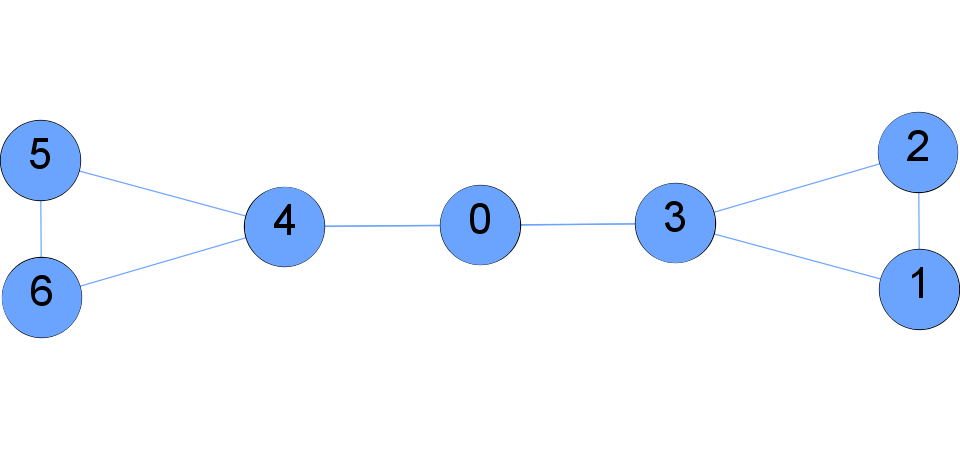
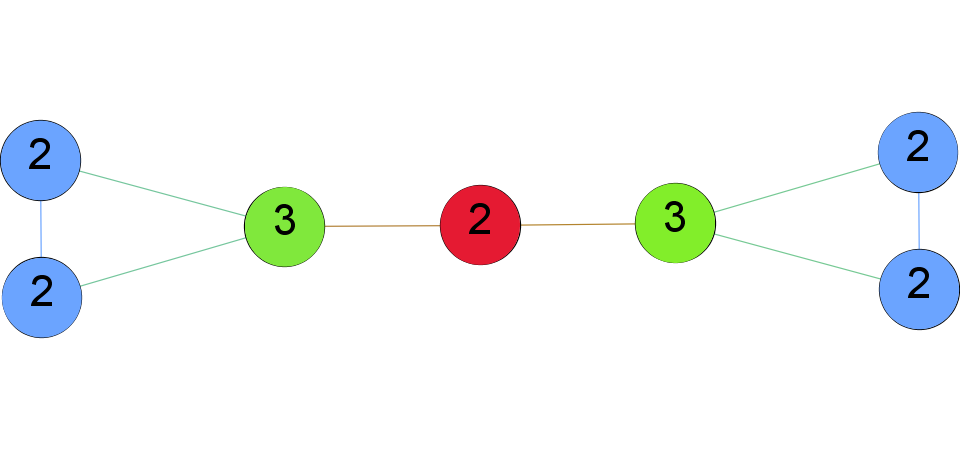
add closeness draft

diff --git a/_includes/graphs/smallworld-example-betweeness.html b/_includes/graphs/smallworld-example-betweeness.html
@@ -1,0 +1,3 @@
+<div id="htmlwidget-e1a9ef7439fae3769133" style="width:100%;height:450px;" class="visNetwork html-widget"></div>
+<script type="application/json" data-for="htmlwidget-e1a9ef7439fae3769133">{"x":{"nodes":{"id":[1,2,3,4,5,6,7,8,9,10,11,12,13,14,15,16,17,18,19,20,21,22,23],"group":[1,2,2,2,1,2,1,1,1,1,3,1,3,3,2,2,2,1,4,4,4,2,1],"size":[0,0,0,71.5,0,4.5,0,0,10.5,0,4,0,1,64.5,0,5,5,0,0,55,10.5,0,0],"label":[1,2,3,4,5,6,7,8,9,10,11,12,13,14,15,16,17,18,19,20,21,22,23],"x":[-0.93528883,-0.64370251,-0.25815814,-0.36911966,0.07582462,0.09556118,-0.87784055,-0.5944275,-0.23924928,-0.16322217,0.3367184,0.25711923,0.11277473,-0.22382193,-1,-0.76775707,-0.57229733,0.97761498,0.59676092,0.45883745,0.71403774,0.91791276,1],"y":[0.2524424,0.3249998,0.4378094,0.2731771,0.449874,0.0591335,0.4633927,0.5685366,0.7012318,1,-0.2342028,-0.8151001,-0.3133818,-0.1651676,-0.4520687,-0.3141045,-0.3194687,-0.4543636,-0.6992878,-0.5285877,-0.7971433,-1,-0.6346642],"title":["Undirected Betweeness: 0<br />Directed Betweeness: 0","Undirected Betweeness: 0<br />Directed Betweeness: 0","Undirected Betweeness: 0<br />Directed Betweeness: 0","Undirected Betweeness: 143<br />Directed Betweeness: 124","Undirected Betweeness: 0<br />Directed Betweeness: 0","Undirected Betweeness: 9<br />Directed Betweeness: 4","Undirected Betweeness: 0<br />Directed Betweeness: 0","Undirected Betweeness: 0<br />Directed Betweeness: 0","Undirected Betweeness: 21<br />Directed Betweeness: 0","Undirected Betweeness: 0<br />Directed Betweeness: 0","Undirected Betweeness: 8<br />Directed Betweeness: 18","Undirected Betweeness: 0<br />Directed Betweeness: 0","Undirected Betweeness: 2<br />Directed Betweeness: 80","Undirected Betweeness: 129<br />Directed Betweeness: 164","Undirected Betweeness: 0<br />Directed Betweeness: 0","Undirected Betweeness: 10<br />Directed Betweeness: 0","Undirected Betweeness: 10<br />Directed Betweeness: 18","Undirected Betweeness: 0<br />Directed Betweeness: 0","Undirected Betweeness: 0<br />Directed Betweeness: 0","Undirected Betweeness: 110<br />Directed Betweeness: 109","Undirected Betweeness: 21<br />Directed Betweeness: 30","Undirected Betweeness: 0<br />Directed Betweeness: 0","Undirected Betweeness: 0<br />Directed Betweeness: 0"]},"edges":{"from":[1,4,4,4,4,10,4,2,4,3,4,4,14,6,11,13,13,14,14,15,17,15,14,17,20,20,20,19,20,19,21,20,21,21,22,20,20,14],"to":[4,5,7,8,9,9,2,4,3,4,6,14,4,11,13,11,14,13,16,16,16,17,17,14,11,12,18,20,19,21,19,21,20,22,21,23,13,20]},"nodesToDataframe":true,"edgesToDataframe":true,"options":{"height":"100%","nodes":{"shape":"dot","physics":false,"title":"don't care","x":[-0.93528883,-0.64370251,-0.25815814,-0.36911966,0.07582462,0.09556118,-0.87784055,-0.5944275,-0.23924928,-0.16322217,0.3367184,0.25711923,0.11277473,-0.22382193,-1,-0.76775707,-0.57229733,0.97761498,0.59676092,0.45883745,0.71403774,0.91791276,1],"y":[0.2524424,0.3249998,0.4378094,0.2731771,0.449874,0.0591335,0.4633927,0.5685366,0.7012318,1,-0.2342028,-0.8151001,-0.3133818,-0.1651676,-0.4520687,-0.3141045,-0.3194687,-0.4543636,-0.6992878,-0.5285877,-0.7971433,-1,-0.6346642],"group":[1,2,2,2,1,2,1,1,1,1,3,1,3,3,2,2,2,1,4,4,4,2,1],"shadow":true,"scaling":{"min":10,"max":50}},"manipulation":{"enabled":false},"edges":{"smooth":false,"arrows":"to"},"physics":{"stabilization":false},"width":"100%","interaction":{"dragNodes":false,"navigationButtons":true}},"groups":["1","2","3","4"],"width":null,"height":null,"idselection":{"enabled":false,"style":"width: 150px; height: 26px","useLabels":true,"main":"Select by id"},"byselection":{"enabled":false,"style":"width: 150px; height: 26px","multiple":false,"hideColor":"rgba(200,200,200,0.5)"},"main":null,"submain":null,"footer":null,"background":"rgba(0, 0, 0, 0)","igraphlayout":{"type":"square"},"highlight":{"enabled":true,"hoverNearest":false,"degree":{"from":1,"to":1},"algorithm":"hierarchical","hideColor":"rgba(200,200,200,0.5)","labelOnly":true},"collapse":{"enabled":false,"fit":false,"resetHighlight":true,"clusterOptions":null},"tooltipStay":300,"tooltipStyle":"position: fixed;visibility:hidden;padding: 5px;white-space: nowrap;font-family: verdana;font-size:14px;font-color:#000000;background-color: #f5f4ed;-moz-border-radius: 3px;-webkit-border-radius: 3px;border-radius: 3px;border: 1px solid #808074;box-shadow: 3px 3px 10px rgba(0, 0, 0, 0.2);"},"evals":[],"jsHooks":[]}</script>
+<script type="application/htmlwidget-sizing" data-for="htmlwidget-e1a9ef7439fae3769133">{"viewer":{"width":"100%","height":"450px","padding":15,"fill":false},"browser":{"width":"100%","height":"450px","padding":"0px","fill":false}}</script>

diff --git a/_drafts/importanza-individui-rete-centralita.md b/_drafts/importanza-individui-rete-centralita.md
@@ -6,6 +6,7 @@ header:
   overlay_filter: 0.5
 graph_bare: "graphs/smallworld-example-bare.html"
 graph_degree: "graphs/smallworld-example-degree.html"
+graph_betweeness: "graphs/smallworld-example-betweeness.html"
 ---
 
 Tutti coloro che si approcciano alla Social Network Analysis si aspettano che questa disciplina li aiuti a capire quali sono gli individui più _prominenti_ in una data rete sociale. Una richiesta più che ovvia, dato che la SNA per definizione studia le relazioni tra gli attori proprio con questa finalità. Gli strumenti a disposizione per rispondere a domande di questo tipo sono moltissimi: alcuni sono semplici, altri estremamente sofisticati; tutti molto utili, in effetti. Ma prima di addentrarci nello specifico bisogna porsi una domanda fondamentale: cosa intendiamo per _prominenza_ in una rete sociale?
@@ -39,20 +40,37 @@ Vediamolo visualmente nella nostra rete giocattolo, dove la dimensione dei nodi 
 
 {% include {{ page.graph_degree }} %}
 
-dove blah blah blah
-
-Per chi si trova a suo agio con la matematica:
-
-$$x = {-b \pm \sqrt{b^2-4ac} \over 2a}.$$
-
-Ora, la misura è semplice e l'interpretazione immediata, ma talvolta contare semplicemente i collegamenti non fa, di per sé, un nodo importante. In particolare, questa misura non dice nulla circa il _tipo_ dei collegamenti, ma rimedieremo subito.
+Ora, la misura è semplice e l'interpretazione immediata, ma talvolta contare semplicemente i collegamenti non fa, di per sé, un nodo importante. In particolare, questa misura non dice nulla circa il _tipo_ dei collegamenti, una cosa che non va trascurata. Rimedieremo subito.
 
 ## Essere fondamentale: Betweeness Centrality
 
-Talvolta un nodo può risultare importante anche quando non ha un elevato numero di nodi da e verso di esso. Vediamo per esempio la rete qui sotto:
+Talvolta un nodo può risultare importante anche quando non ha un elevato numero di nodi da e verso di esso. Vediamo per esempio la rete qui sotto, in cui i numeri nei nodi rappresentano la degree centrality:
 
-{% include figure image_path="/assets/images/toy.butterfly.png" alt="Butterfly Network" caption="Nella rete cosiddetta a farfalla non è detto che i nodi con elevata degree centrality siano quelli più importanti della rete." %}
+{% include figure image_path="/assets/images/toy.butterfly.png" alt="Butterfly Network - Degree Centrality" caption="A valori alti di degree centrality (i numeri all'interno dei nodi) non necessariamente corrispondono i nodi più importanti di una rete." %}
 
-A buon senso, direi che è abbastanza evidente che il nodo _0_ ha un ruolo essenziale per la tenuta della rete. E questo pur avendo un numero di connessioni più basso dei nodi _3_ e _4_.
+A buon senso, è abbastanza evidente che il nodo rosso è essenziale per la tenuta della rete anche se la sua degree centrality è più bassa rispetto ai nodi verdi.
+Il fatto è che le interazione tra gli individui in una rete non dipendono esclusivamente dai loro vicini più prossimi. Interazioni tra due nodi non adiacenti possono essere influenzate da altri attori della rete, soprattutto se questi giacciono nei possibili percorsi tra i due e possono quindi "metterci il becco". Questi attori hanno, potenzialmente la possibilità di esercitare un controllo sulla comunicazione proprio in virtù del fatto che, affinché la comunicazione sia possibile, è necessario il loro intervento. In altre parole sono __fondamentali__ per la comunicazione tra i summenzionati due nodi della rete.
 
-Ebbene, la __Betweeness Centrality__ misura esattamente questo: 
+Come sappiamo, in una rete i percorsi possibili tra gli individui che la compongono sono infiniti. E sappiamo anche la legge del telefono senza fili: quanto più un percorso è lungo, tanto più l'informazione che giungerà a destinazione sarà distorta (e non è detto che arrivi). Bisogna tenerne conto.
+
+Ebbene, la __Betweeness Centrality__ di un nodo fa esattamente questo: dato un nodo \\( A \\) e prese tutte le coppie possibili di nodi della rete, escluso il nodo \\( A \\) stesso, la betweeness centrality di \\( A \\) è il numero di tutti i percorsi minimi che vi passano attraverso.
+
+{% include figure image_path="/assets/images/toy.butterfly.betweeness.png" alt="Butterfly Network - Betweeness Centrality" caption="Il nodo rosso è un passaggio obbligato per tutti i percorsi che vogliano transitare da un lato all'altro della rete, mentre nessun percorso minimo ha bisogno dei nodi azzurri per collegare gli altri nodi. Tanto più spesso un nodo si trova a giacere su un percorso minimo che collega coppie qualsiasi di altri nodi della rete, tanto più la sua betweeness centrality sarà alta. " %}
+
+Certo, il nodo rosso si trova in una situazione di forte _stress_ comunicativo, dovendo garantire l'apertura di più canali rispetto agli altri attori (in questi casi si dice che il nodo ha forti _costrizioni sociali_, lo vedremo in uno dei prossimi articoli), ma il rovescio della medaglia è la situazione di relativa preminenza: come anticipavamo, esso è, in una parola, un _connettore fondamentale_.
+
+Come per il caso precedente, in caso di grafi direzionati avremo a disposizione due misure: la __directed betweeness centrality__, che tiene conto del verso dei collegamenti per il calcolo dei percorsi minimi, e la __undirected betweeness centrality__ che, invece, li ignora.
+
+Esprimendo con la dimensione dei nodi la betweeness centrality alla nostra rete giocattolo, questo è il risultato:
+
+{% include {{ page.graph_betweeness }} %}
+
+Si nota subito come, in particolare, il nodo _14_, rispetto al calcolo precedente, ora abbia una prominenza maggiore in termini di betweeness; questo grazie alla sua funzione di connessione per la sottorete verde. Questo mentre gli altri nodi rossi, che pure avevano una degree piuttosto prominente, siano praticamente spariti; il loro ruolo di mediatori è vanificato dalla connessione diretta tra il nodo 14 e il nodo 20, più breve, e la loro betweeness ne è risultata compromessa.
+
+Come per la degree centrality, anche nel caso della betweeness centrality è possibile _normalizzare_ la misura in modo che, per reti molto estese, non assuma valori troppo estremi. Lo vedremo in uno dei prossimi articoli.
+
+## Essere efficienti: Closeness Centrality__
+
+Supponiamo il caso in cui siamo interessati a individuare i nodi in una rete che hanno più probabilità di reagire prontamente a un dato evento che sconvolge la rete stessa. Più che alla quantità di connessioni o alla capacità di essere fondamentali, in situazioni come queste ci interessa, probabilmente, più qualcosa legato alla _distanza_: vogliamo che il nostro telefono senza fili non abbia tanti intermediari.
+
+L'idea di base è questa: tanto più mediamente __vicini__ tali attori sono a tutti gli altri, tanto più _reattivi_ essi saranno perché minore sarà il numero di attori di cui hanno bisogno per trasferire un'informazione a un punto della rete o per rispondere a un evento. In senso più generale, essi sono i nodi più __efficienti__ del flusso di comunicazione della rete.

diff --git a/_drafts/betweeness-formalismo-matematico.md b/_drafts/betweeness-formalismo-matematico.md
@@ -1,0 +1,23 @@
+---
+title: "La matematica dietro le misure della centralità"
+excerpt: "Lorem ipsum dolor sic amet"
+header:
+  overlay_image: /assets/images/centrality-overlay.png
+  overlay_filter: 0.5
+graph_bare: "graphs/smallworld-example-bare.html"
+graph_degree: "graphs/smallworld-example-degree.html"
+graph_betweeness: "graphs/smallworld-example-betweeness.html"
+---
+
+
+Per chi si trova a suo agio con la matematica, esprimiamo la degree centrality totale per il nodo \\( i \\) come
+
+$$ C_D(n_i) = d(n_i) = \sum_{j}^{g - 1} x_{ij} = \sum_{j}^{g - 1} x_{ji} $$
+
+Con \\( g \\) il numero dei nodi della rete e \\( j \ne i \\) e \\( n_i \\) parametro dipendente da \\( i \\). Essa è pari alla somma dei pesi di tutti i collegamenti \\( x_{ij} \\) tra il nodo \\( i \\) e tutti gli altri nodi \\( j \\) della rete (se non è presente un collegamento tra \\( i \\) e \\( j \\), \\( x_{ij} = 0 \\)).
+
+I due membri dell'equazione a destra non sono uguali nelle reti direzionate e rappresentano la out-degree e la in-degree centrality rispettivamente. In caso, infine, di collegamenti pesati, parliamo di __weighted degree centrality__ in quanto potrebbe essere che \\( x_{ij} \ge 1 \\).
+
+Talvolta, si preferisce utilizzare una misura _normalizzata_ della centralità, in modo che assuma un valore (compreso tra zero e uno) che non sia dipendente dalle dimensioni della rete. In tal caso, la formula va semplicemente divisa per \\( g - 1 \\).
+
+$$ C_D(n_i) = \frac{d(n_i)}{g - 1} $$
